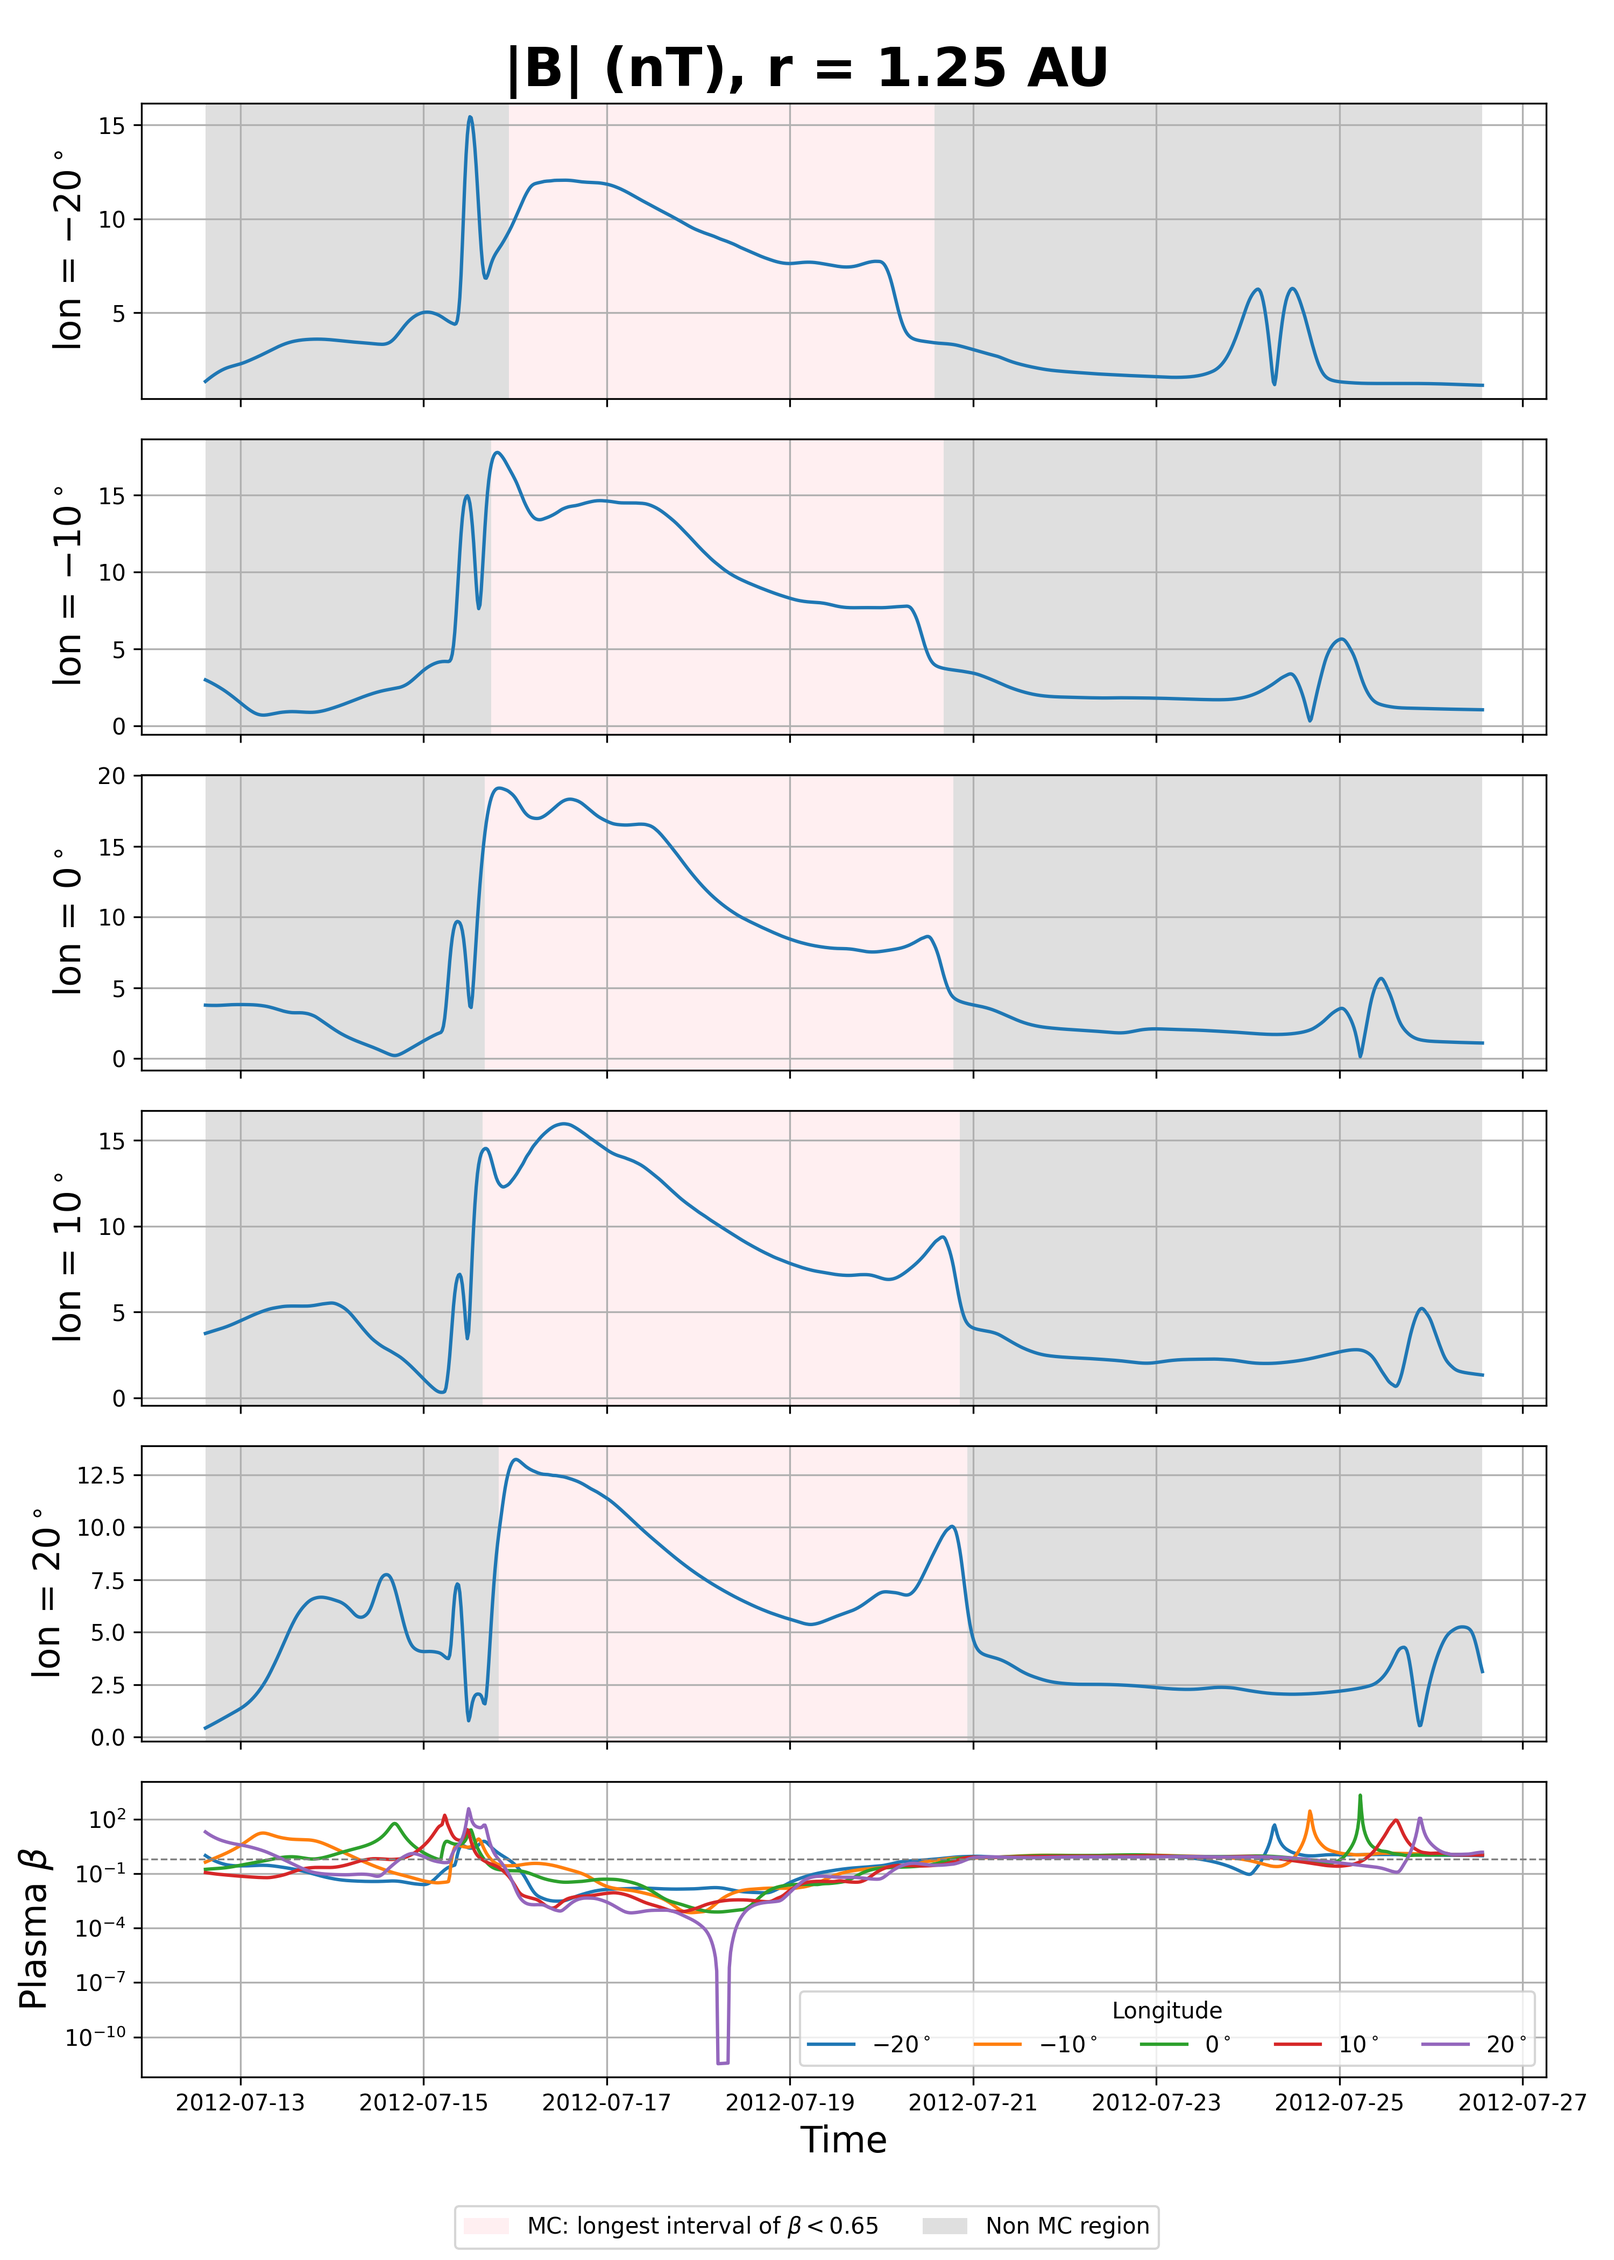
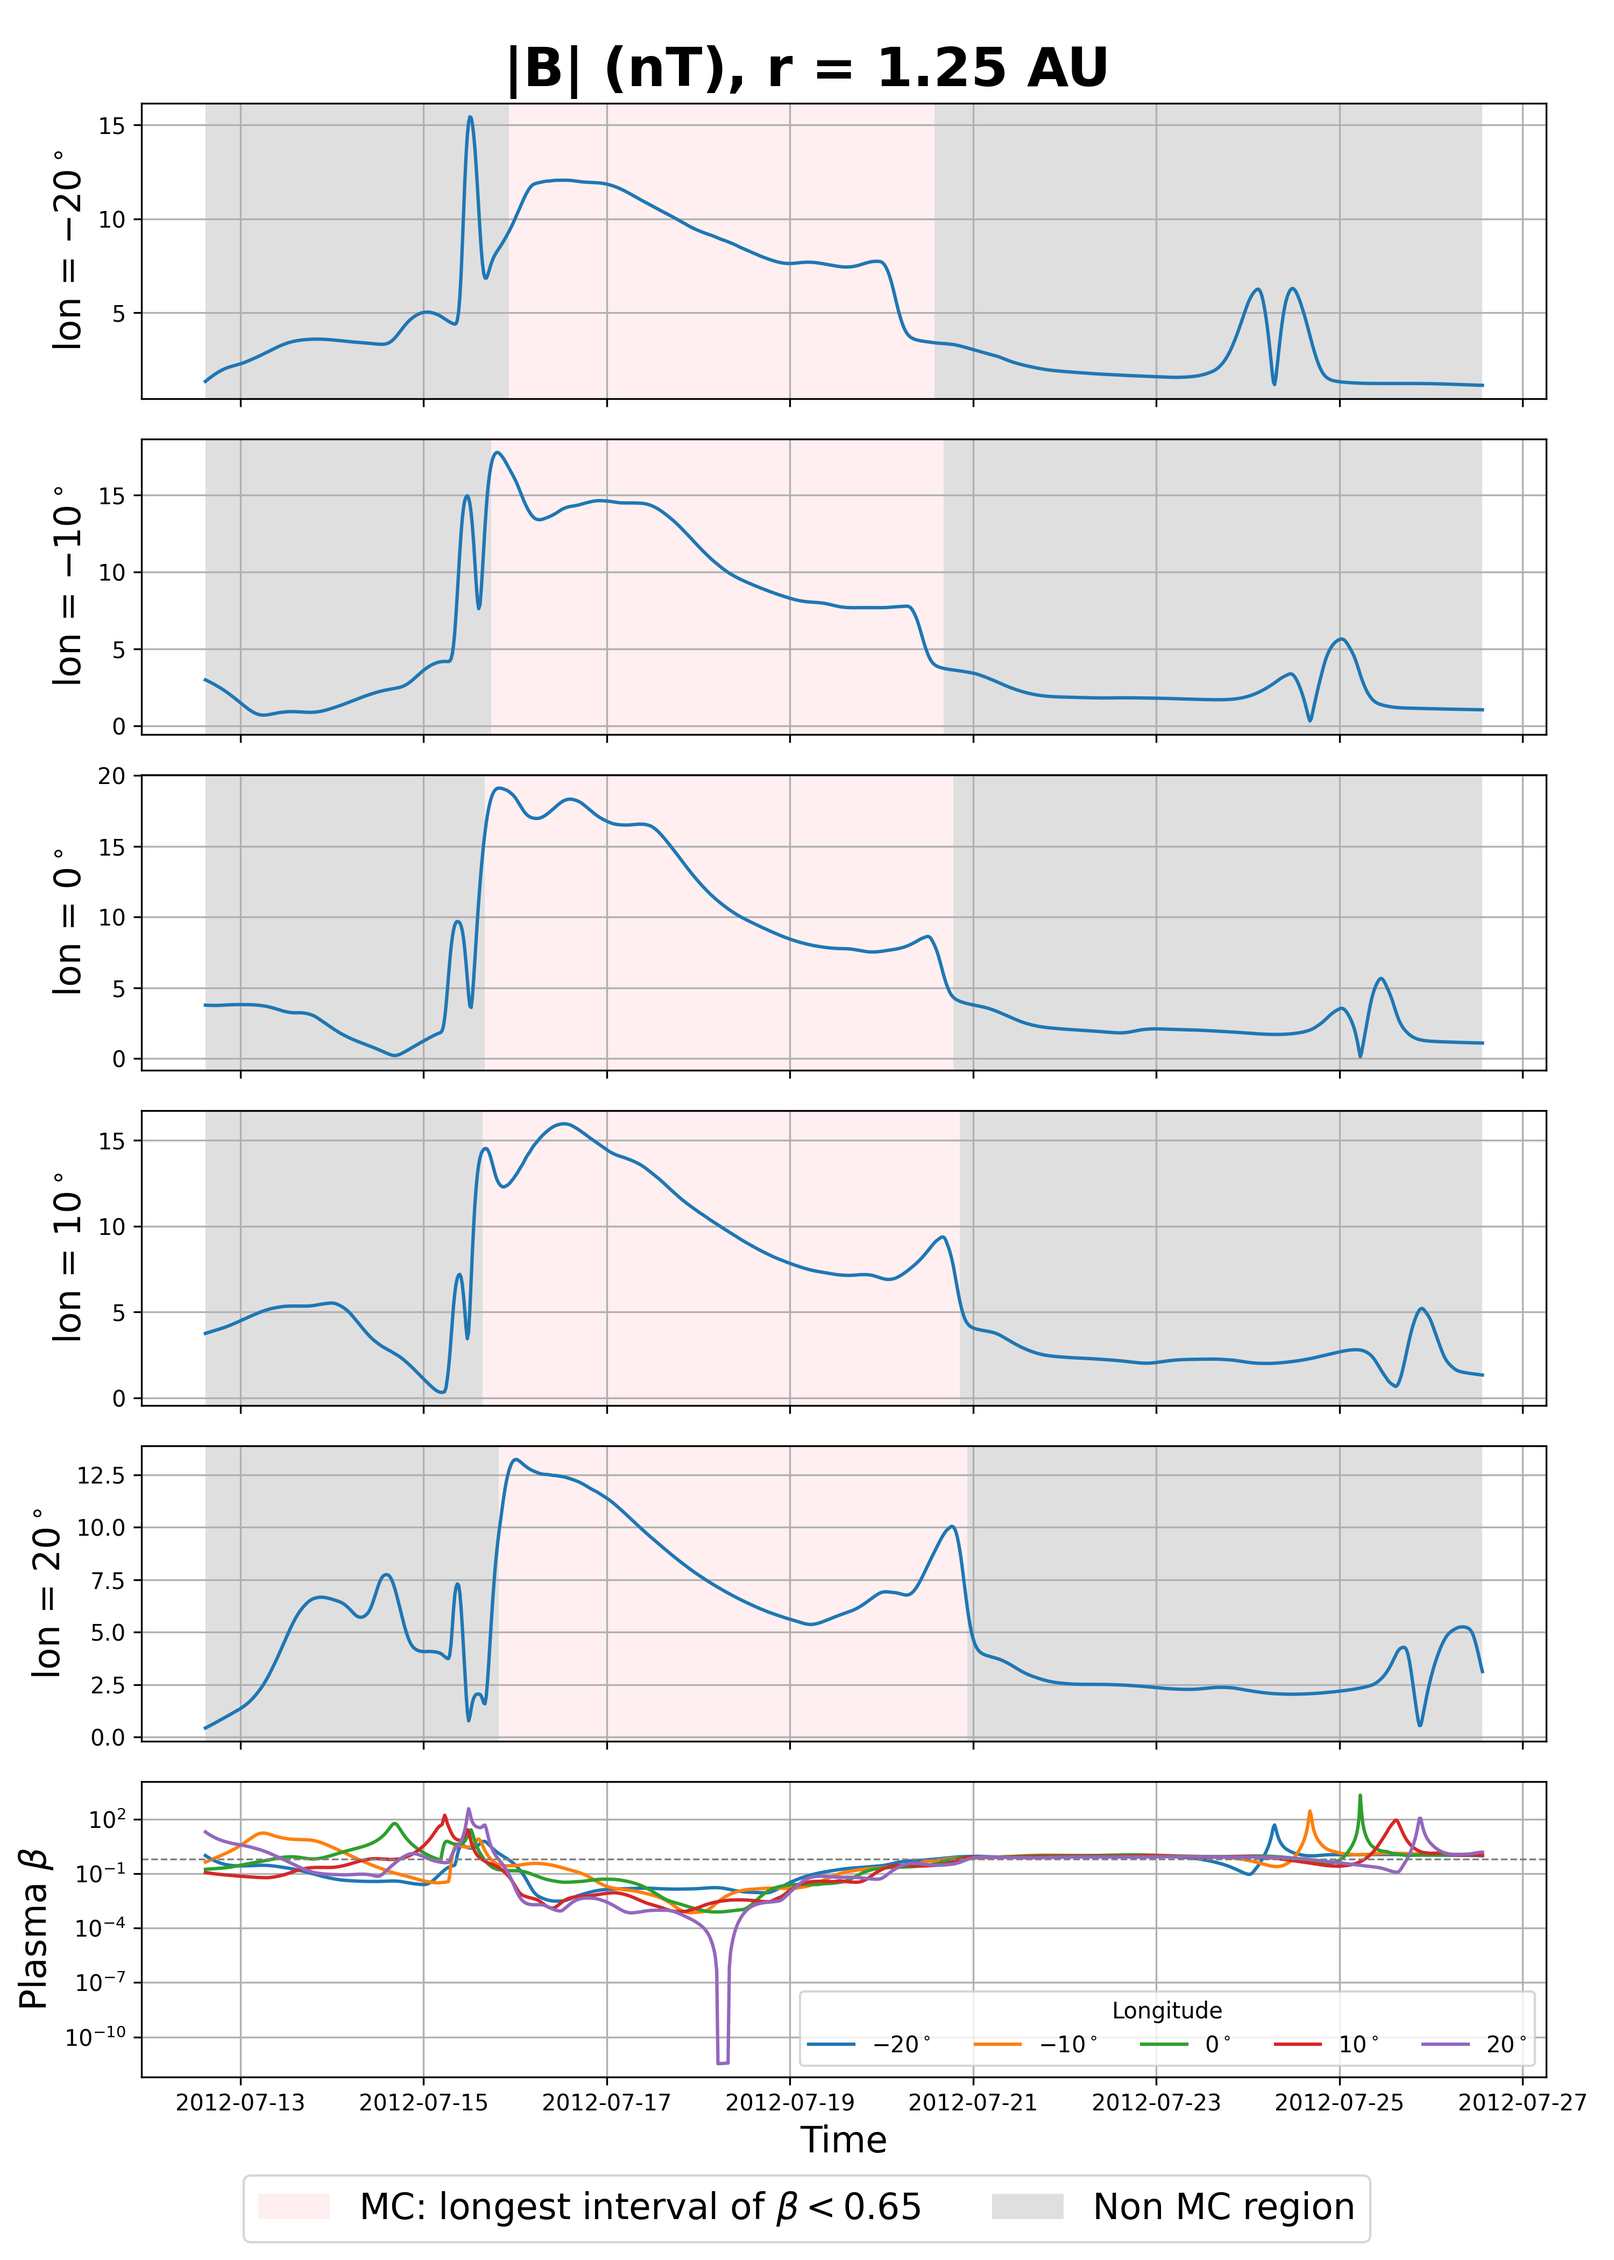
commiting on Oct 19, 11:16 am

Changed region(s): [[0.279, 0.9669, 0.837, 0.9981], [0.217, 0.9669, 0.248, 0.9981]]

diff --git a/scripts/simulation_post_processing/B_predictions/Erika_2026_redo/magnetic_structure.py b/scripts/simulation_post_processing/B_predictions/Erika_2026_redo/magnetic_structure.py
@@ -21,7 +21,7 @@ from datetime import timedelta, datetime
 # pl.Config.set_tbl_rows(-1)      # polars settings to show all the rows
 
 # what variation to analyze
-variation = "longitudinal"        # options: "radial", "longitudinal", "latitudinal"
+variation = "latitudinal"     # options: "radial", "longitudinal", "latitudinal"
 radii_lat_lon_analysis = [0.33, 1.0]
 offsets_to_plot = [-20, -10, 0, 10, 20]
 beta_threshold = 0.65
@@ -346,8 +346,9 @@ if __name__ == "__main__":
             axs[5].axhline(beta_threshold, color="gray", linewidth=0.8, linestyle="--")
             axs[0].legend(handles=[
                 Patch(facecolor="pink", alpha=0.25, label=rf"MC: longest interval of $\beta < {beta_threshold:g}$"),
-                Patch(facecolor="gray", alpha=0.25, label="Non MC region"),
-            ])
+                Patch(facecolor="gray", alpha=0.25, label="Non MC region"),],
+                fontsize=14
+            )
 
             # set the labels and legends
             axs[0].set_ylabel("|B| [nT]", fontsize=16)
@@ -451,7 +452,7 @@ if __name__ == "__main__":
                     Patch(facecolor="pink", alpha=0.25,
                           label=rf"MC: longest interval of $\beta < {beta_threshold:g}$"),
                     Patch(facecolor="gray", alpha=0.25, label="Non MC region"),
-                ], loc="lower center", ncol=2)
+                ], loc="lower center", ncol=2, fontsize=16)
                 figure.tight_layout(rect=(0, 0.035, 1, 1))
 
             # save the figure outside the loop
@@ -535,7 +536,7 @@ if __name__ == "__main__":
                     Patch(facecolor="pink", alpha=0.25,
                           label=rf"MC: longest interval with $\beta < {beta_threshold:g}$"),
                     Patch(facecolor="gray", alpha=0.25, label="Non MC region"),
-                ], loc="lower center", ncol=2)
+                ], loc="lower center", ncol=2, fontsize=16)
                 figure.tight_layout(rect=(0, 0.035, 1, 1))
 
             # save the figure outside the loop
